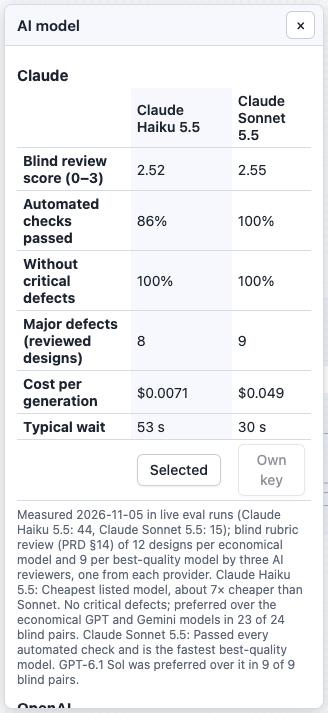
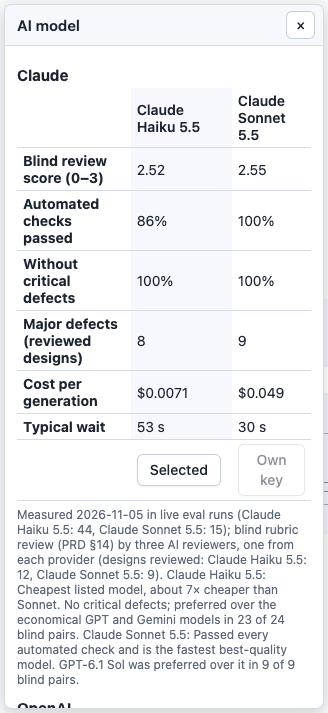
Model comparison: designs reviewed come from the benchmark data (#76)
Closes #32.

## What
The model comparison caption hard-coded "12 designs per economical model
and 9 per best-quality model". `ModelBenchmark` now has an optional
`designsReviewed` (Haiku 12, Sonnet 9, GPT-6.1 Sol 9, Gemini 4 Argon 9,
from `docs/product/phase3-provider-benchmark.md`), and the caption is
built from it:

> …blind rubric review (PRD §14) by three AI reviewers, one from each
provider (designs reviewed: Claude Haiku 5.5: 12, Claude Sonnet 5.5: 9).

**Wording deviates from the issue's "same text as today" on purpose:**
the caption is rendered once per provider table, and the old tier
sentence was already wrong for the OpenAI and Gemini tables (each lists
only its best-quality model). The numbers are the same; each table now
names only its own models. When no model in a table has reviewed
designs, the review clause is left out.

## Checks
- Web tests (watched fail first): caption lists the counts from the
data; a changed count follows the data; no review clause without data.
- `pnpm run ci` passes (web 200).
- `pnpm screenshots` no longer renders this caption (it makes only the
social preview), so the manual's `model-window.png` and
`setup-3-models.png` are regenerated instead; other manual images left
untouched.
- CHANGELOG line under Unreleased → Changed.

🤖 Generated with [Claude Code](https://claude.com/claude-code)

Changed region(s): [[0.0305, 0.7405, 0.9451, 0.8331]]

diff --git a/packages/domain/src/models.ts b/packages/domain/src/models.ts
@@ -42,6 +42,8 @@ export interface ModelBenchmark {
   noCriticalDefectRate?: number;
   /** Major defects summed over the blind-reviewed designs (median over reviewers per design). */
   majorDefects?: number;
+  /** Designs the blind review covered (one per scenario); absent until a blind review has run. */
+  designsReviewed?: number;
   /** Mean cost of one generation in USD, at the provider price list in force on the release date (Argon: December price). */
   costPerOperationUsd: number;
   medianLatencySeconds: number;
@@ -91,6 +93,7 @@ export const MODEL_OPTIONS: readonly ModelOption[] = [
       blindMedianScore: 2.52,
       noCriticalDefectRate: 1,
       majorDefects: 8,
+      designsReviewed: 12,
       costPerOperationUsd: 0.0071,
       medianLatencySeconds: 53,
     },
@@ -112,6 +115,7 @@ export const MODEL_OPTIONS: readonly ModelOption[] = [
       blindMedianScore: 2.55,
       noCriticalDefectRate: 1,
       majorDefects: 9,
+      designsReviewed: 9,
       costPerOperationUsd: 0.049,
       medianLatencySeconds: 30,
     },
@@ -144,6 +148,7 @@ export const MODEL_OPTIONS: readonly ModelOption[] = [
       blindMedianScore: 2.86,
       noCriticalDefectRate: 1,
       majorDefects: 1,
+      designsReviewed: 9,
       costPerOperationUsd: 0.044,
       medianLatencySeconds: 65,
     },
@@ -173,6 +178,7 @@ export const MODEL_OPTIONS: readonly ModelOption[] = [
       blindMedianScore: 2.43,
       noCriticalDefectRate: 0.889,
       majorDefects: 11,
+      designsReviewed: 9,
       costPerOperationUsd: 0.1197,
       medianLatencySeconds: 50,
     },

diff --git a/apps/web/src/models.tsx b/apps/web/src/models.tsx
@@ -35,6 +35,9 @@ export function ModelComparison({
   disabledLabel?: string;
 }) {
   const b = (o: ModelOption) => o.benchmark;
+  const reviewed = options.flatMap((o) =>
+    o.benchmark?.designsReviewed ? [`${o.label}: ${o.benchmark.designsReviewed}`] : [],
+  );
   const rows: [string, (o: ModelOption) => string][] = [
     ['Blind review score (0–3)', (o) => orNot(b(o)?.blindMedianScore, (x) => x.toFixed(2))],
     ['Automated checks passed', (o) => orNot(b(o)?.passRate, pct)],
@@ -91,10 +94,10 @@ export function ModelComparison({
       </tbody>
       <caption className="muted small">
         Measured {options[0]?.benchmark?.measuredAt} in live eval runs (
-        {options.map((o) => `${o.label}: ${o.benchmark?.runs ?? 0}`).join(', ')}); blind rubric
-        review (PRD §14) of 12 designs per economical model and 9 per best-quality model by three AI
-        reviewers, one from each provider.{' '}
-        {options.map((o) => `${o.label}: ${o.summary}`).join(' ')}
+        {options.map((o) => `${o.label}: ${o.benchmark?.runs ?? 0}`).join(', ')})
+        {reviewed.length > 0 &&
+          `; blind rubric review (PRD §14) by three AI reviewers, one from each provider (designs reviewed: ${reviewed.join(', ')})`}
+        . {options.map((o) => `${o.label}: ${o.summary}`).join(' ')}
       </caption>
     </table>
   );

diff --git a/apps/web/src/models.test.tsx b/apps/web/src/models.test.tsx
@@ -102,3 +102,26 @@ describe('usd', () => {
     expect(usd(0.0071)).toBe('$0.0071');
   });
 });
+
+describe('ModelComparison caption', () => {
+  const caption = (options: Parameters<typeof ModelComparison>[0]['options']) =>
+    renderToStaticMarkup(
+      <ModelComparison options={options} enabled={['haiku', 'sonnet']} onSelect={vi.fn()} />,
+    ).match(/<caption[^>]*>(.*?)<\/caption>/s)![1]!;
+
+  it('names how many designs each model had reviewed, from the benchmark data', () => {
+    const text = caption([withBenchmark('haiku'), withBenchmark('sonnet')]);
+    expect(text).toContain('designs reviewed: Claude Haiku 5.5: 12, Claude Sonnet 5.5: 9');
+    expect(text).not.toContain('per economical model');
+  });
+
+  it('follows the data when a benchmark reviews a different number', () => {
+    const haiku = withBenchmark('haiku');
+    const text = caption([{ ...haiku, benchmark: { ...haiku.benchmark!, designsReviewed: 15 } }]);
+    expect(text).toContain('designs reviewed: Claude Haiku 5.5: 15');
+  });
+
+  it('leaves the review out when no listed model has reviewed designs', () => {
+    expect(caption([lunaMeasured])).not.toContain('designs reviewed');
+  });
+});

diff --git a/CHANGELOG.md b/CHANGELOG.md
@@ -16,6 +16,7 @@ All notable changes are recorded here. The format follows [Keep a Changelog](htt
 
 ### Changed
 
+- Model comparison: the caption names how many designs the blind review covered for each model, from the benchmark data (`designsReviewed`) instead of fixed text, so it stays right after the next benchmark ([#32](https://github.com/aliaksandr-liapin/cloudarchitect-lite/issues/32)).
 - Editor: upgraded the diagram library to React Flow (@xyflow/react) 13. Nothing should look or behave differently: the fit-to-view margin is kept (5%), the canvas still follows the app's own light/dark switch rather than the system setting, and the zoom controls keep their look.
 - Editor: Add, Findings, Versions and AI model are now windows over the canvas, opened from the toolbar and closed by default, so the canvas can show the diagram alone. The side column defaults to the toolbar's width and its headings and buttons are easier to see.
 - Editor: a cleaner toolbar and buttons. The window toggles form one group, Undo and Redo are icon buttons, all buttons share one height and outline, and Delete is red.
